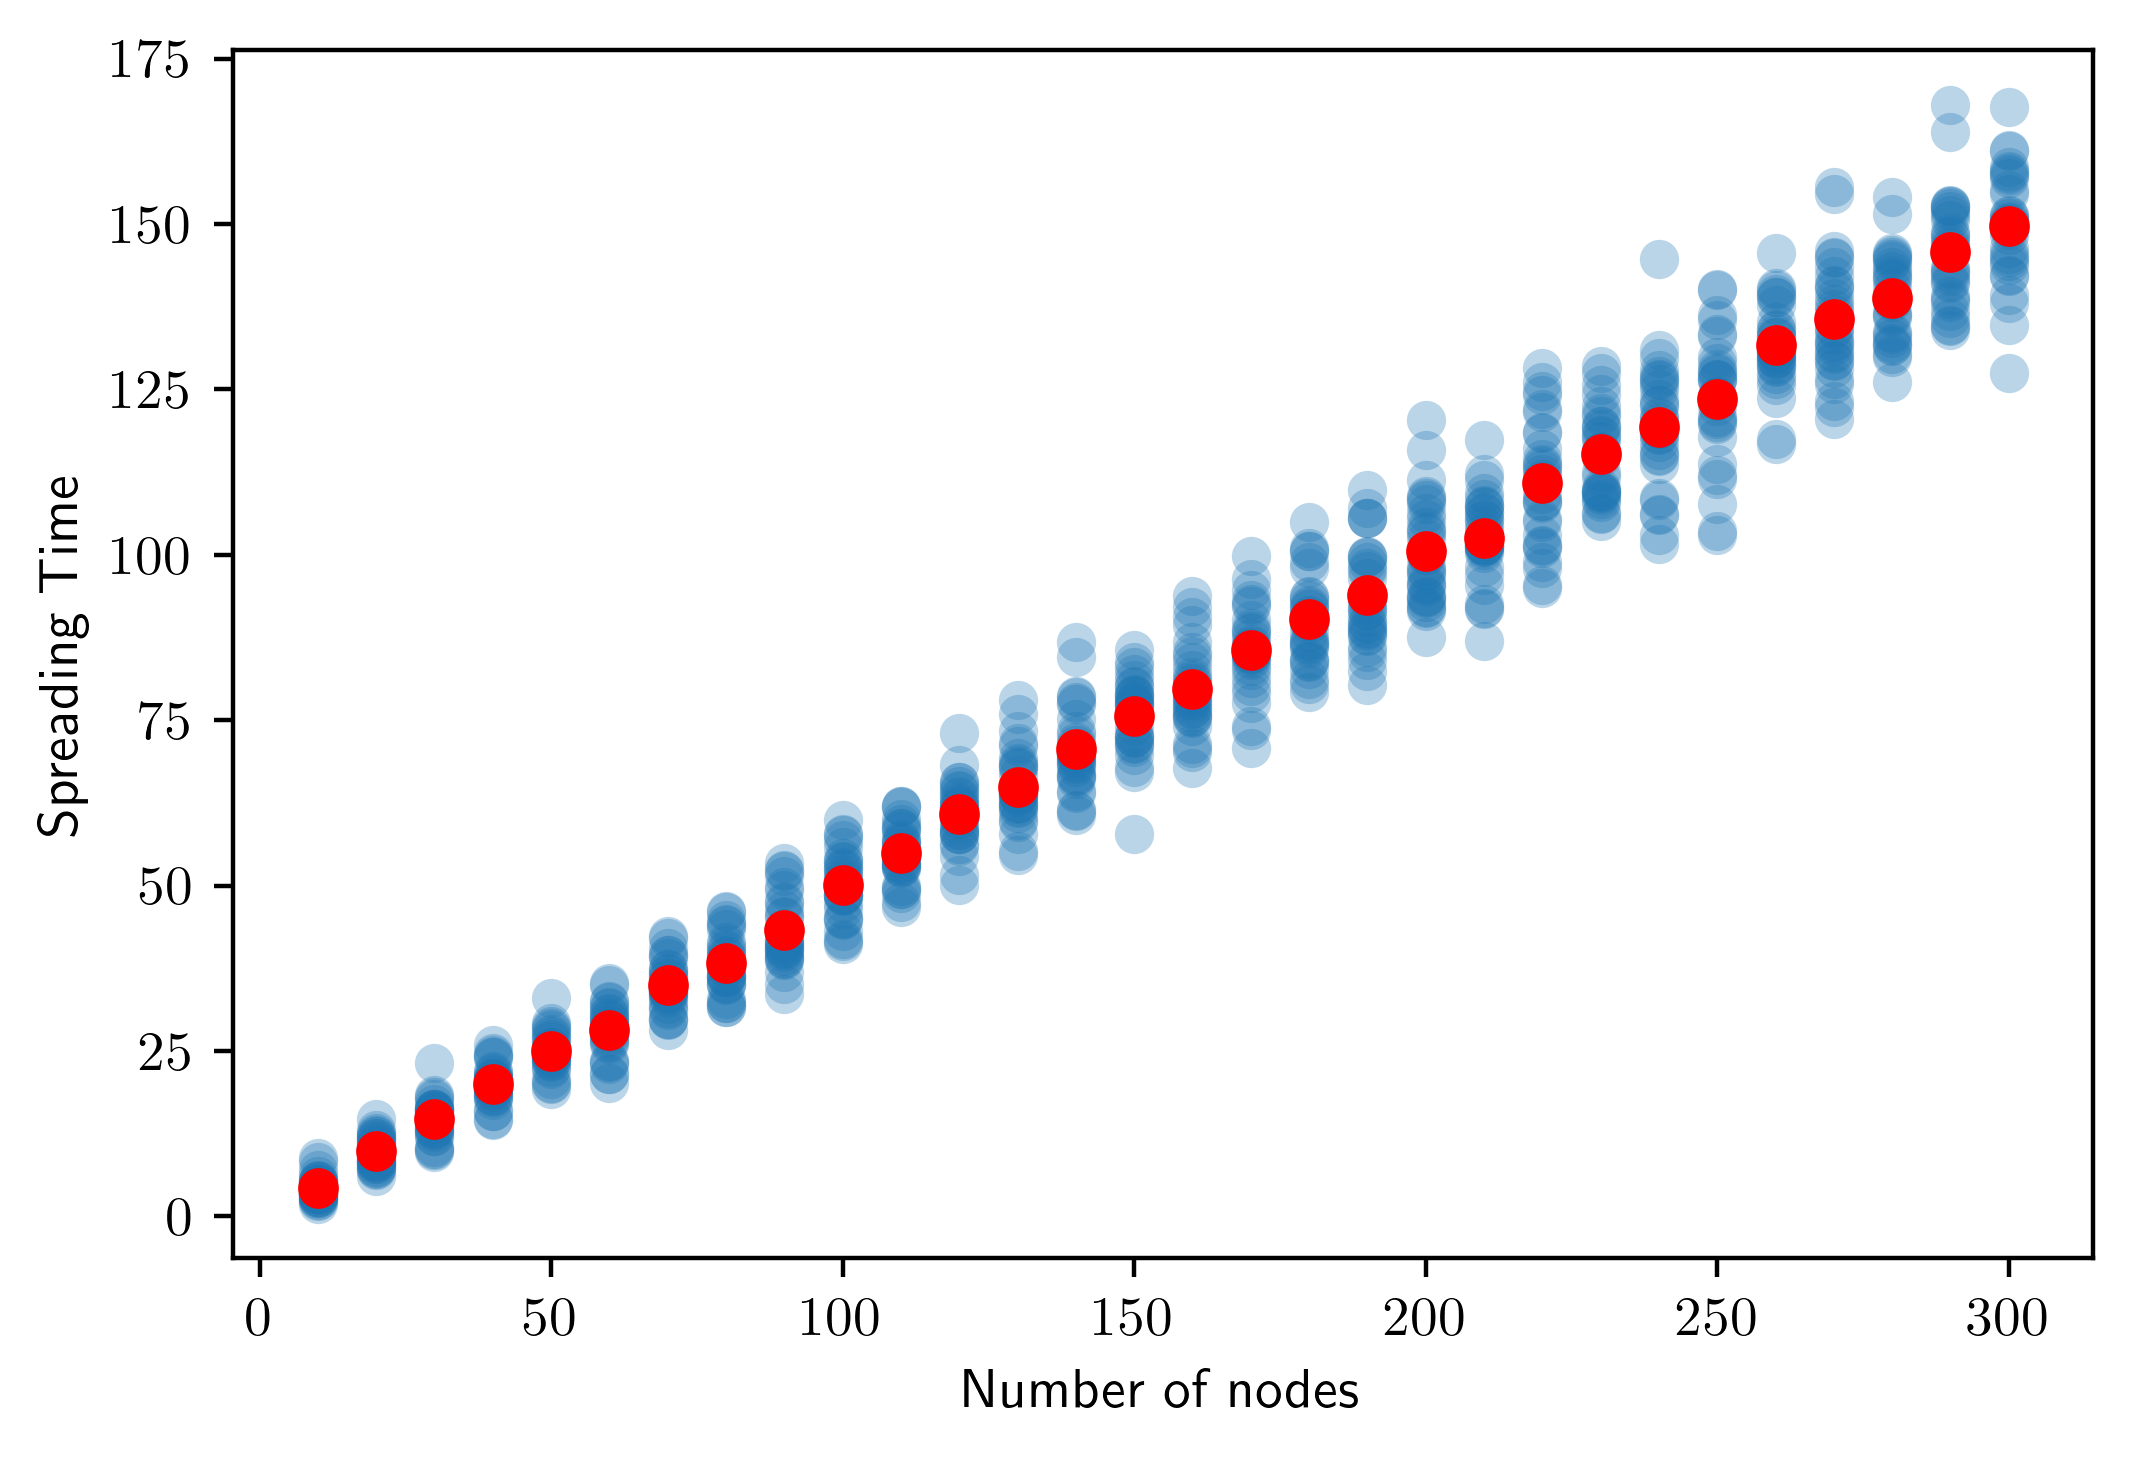
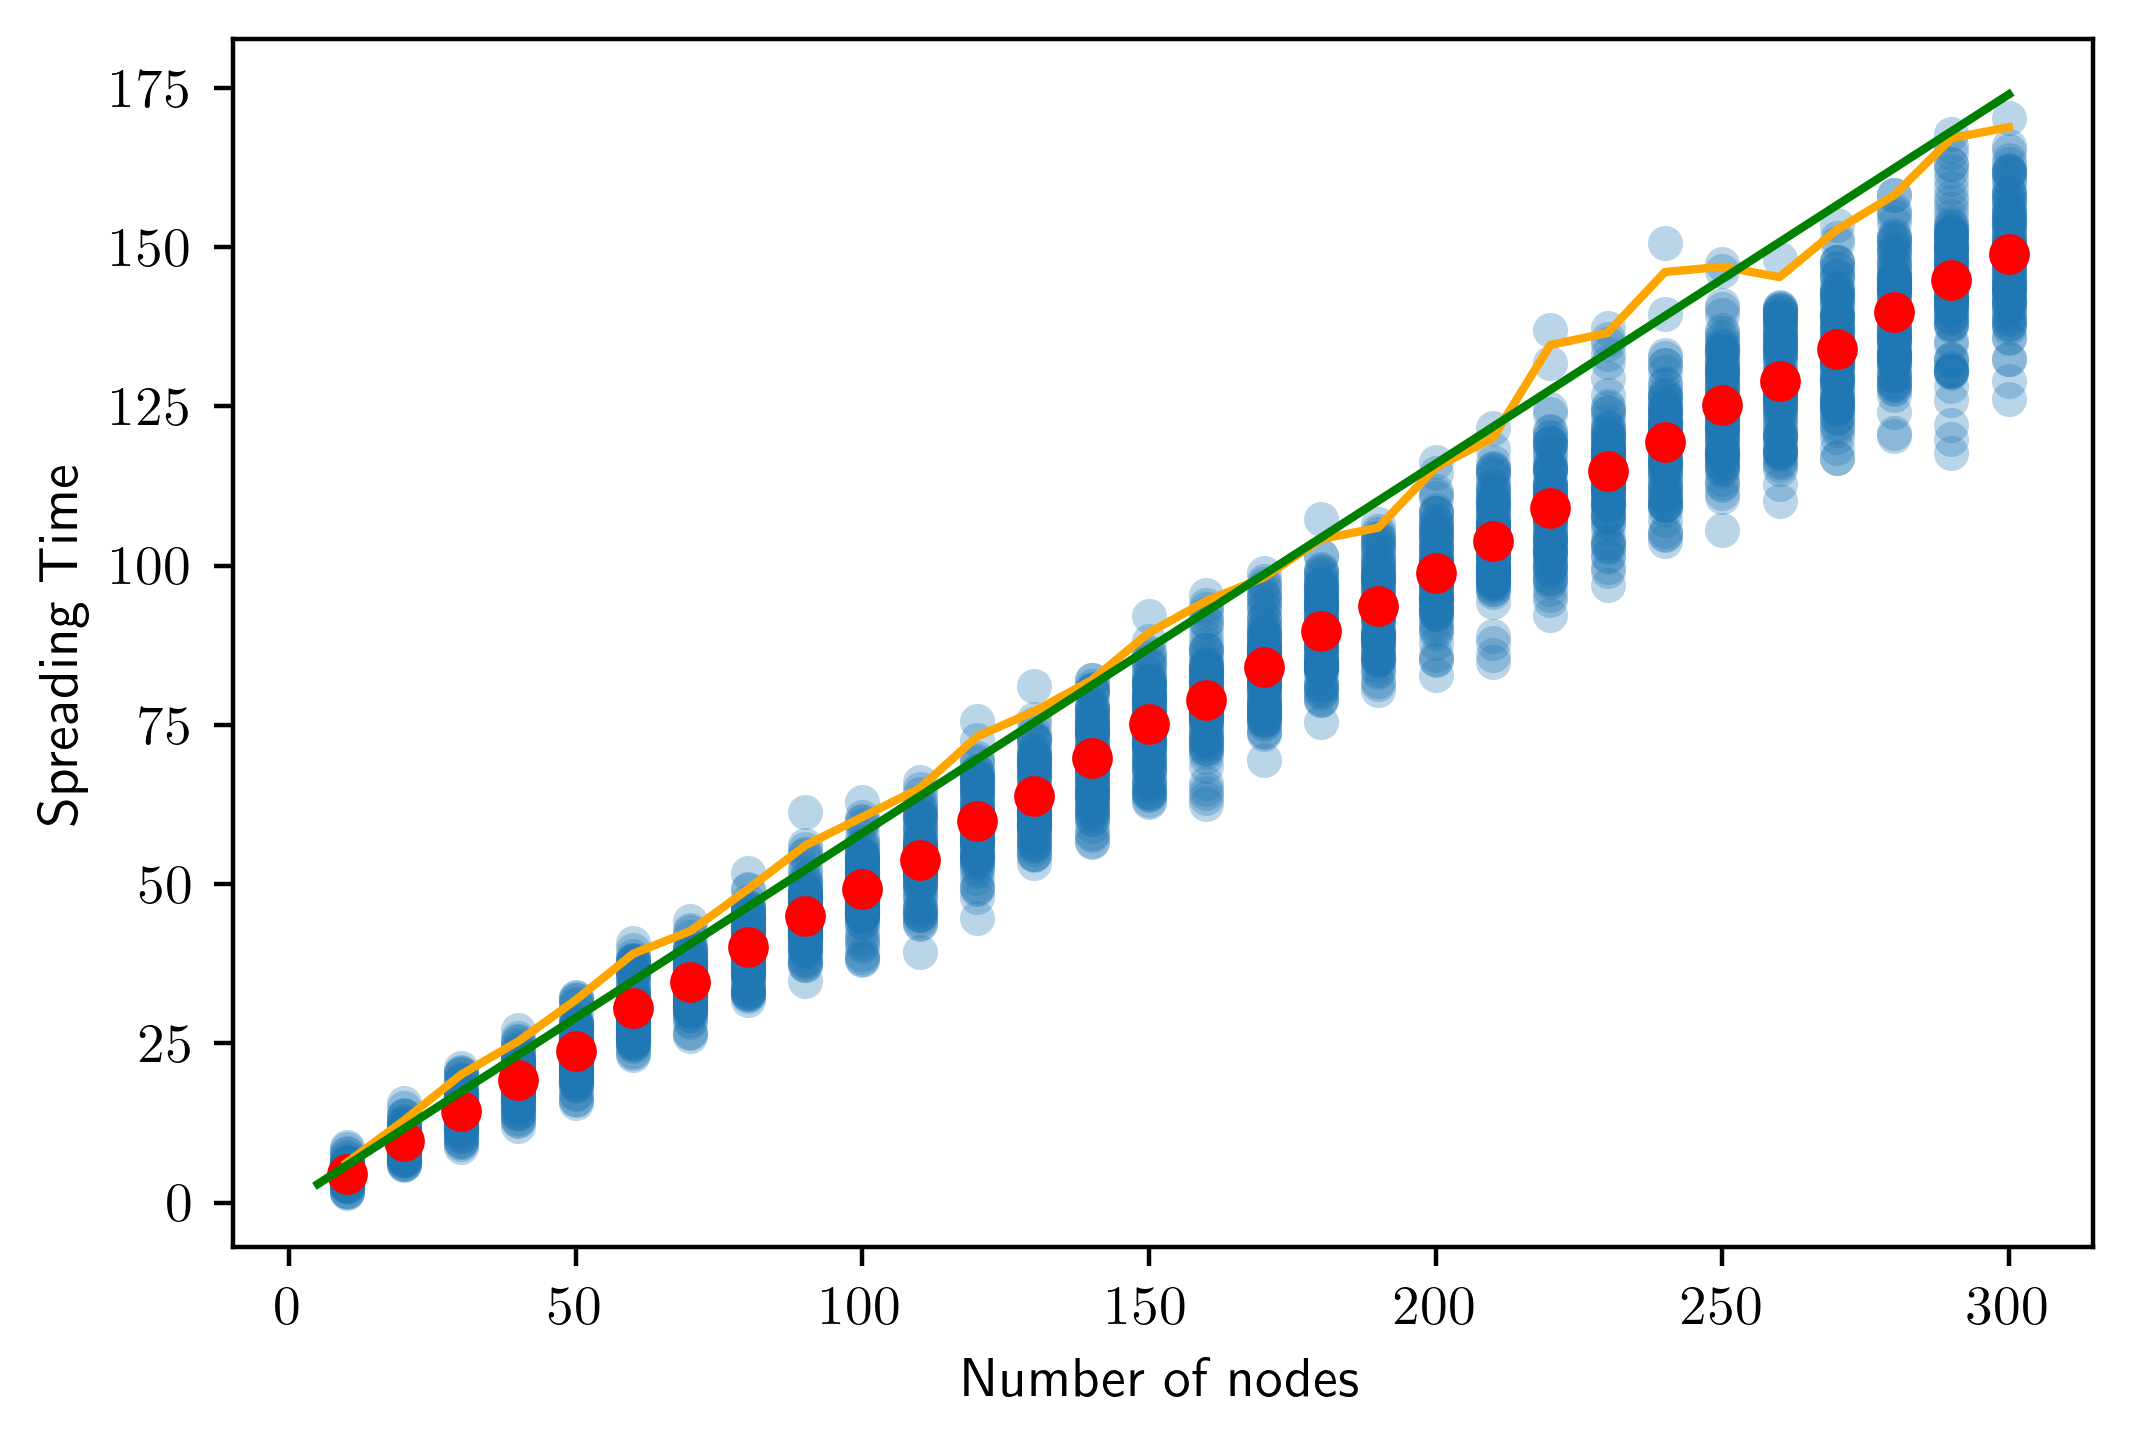
Added analysis method figure

diff --git a/dissertation/chapters/AsyncBoundProof.tex b/dissertation/chapters/AsyncBoundProof.tex
@@ -468,7 +468,7 @@ for large $n$.
 % TODO: IS this an uneccessary tangent?
 % In this result we slowed the spread of the rumour on the static complete graph by alternating the complete topology with the low-connectivity ring topology. However, overall we saw that this approach only slowed the spread of the rumour by a constant factor relative to the spreading time of a static complete graph. A natural question to ask is how infrequently can we have the high-connectivity whilst still maintaining the short $\mathcal{O}(\log n)$ spreading time we see in the static complete graph.
 
-Now we compare the bound with simulated spreading times on the $\mathcal{A}$.
+Now we compare the bound with simulated spreading times on $\mathcal{A}$.
 
 \begin{figure}[h]
 	\centering
@@ -479,25 +479,23 @@ Now we compare the bound with simulated spreading times on the $\mathcal{A}$.
 
 The scatter plot in Figure \ref{fig:alternatingSimResults} displays the results simulated rumour spreading on $\mathcal{A}$. Each blue point in the plot represents a single simulation, where the $x$ component is the number of nodes in the simulation, and the $y$ component is spreading time. Since the spreading time is random variable, 200 simulations were run for each network size we investigated. The means (displayed by red points) illustrate the relationship between the size of the network and the expected spreading time. 
 
-However, since the bound in Theorem \ref{theorem:AsyncUpperBound} holds w.h.p, we need a different metric that for which the majority of the spreading times are bounded by ... % TODO: Sort out what this means
-
-To determine whether our bound is sufficient and tight, we investigate the growth rate of the orange line.
-
-Since the asymptotic bound holds w.h.p, for a network with $n$ nodes, we expect that at most 1 in $n$ simulated spreading times exceed the bound.
-
-For the network size of $n$ nodes, the corresponding value of the orange line represents the $100(1-\frac{1}{n})^\text{th}$ percentile of the simulation results, i.e. that 
-
-We observe that the spreading times grow at like $f(n) = c \log \log (n)$ with an appropriately chosen scaling constant $c$ (plotted in green), so the $\mathcal{O}(\log n)$ bound holds. 
-
-However, this analysis suggests that $\mathcal{O}(\log n)$ bound is not tight for $\mathcal{A}$.
+\begin{figure}[h]
+	\centering
+	\includegraphics[width=1\textwidth]{./figures/analysis_method_example.png}
+	\caption{Illustration of the simulation analysis method. The top plot shows an imaginary spreading time distribution. The bottom plot shows the corresponding empirical distribution generated by simulations.}
+	\label{fig:analysisMethod}
+\end{figure}
 
 
-% TODO: Difference between means and bound -> means fit bound => likely bound works/is tight, expect all points beneath bound don't expect means to follow bound exactly
-% TODO: Analysis - what does this sim actually tell us
+We take a moment to interpret the quantity Theorem \ref{theorem:AsyncUpperBound} bounds. Consider the true distribution of spreading times for a network of size $n$. The top plot of Figure \ref{fig:analysisMethod} shows such a distribution. Since the bound holds w.h.p, we have that at least a $1-\frac{1}{n}$ fraction of the density is below the bound. We represent the bound by $g(n)$ in Figure \ref{fig:analysisMethod} Denote the function that takes a network size, and returns the point at which exactly a $1-\frac{1}{n}$ fraction of the density lies below the point the "high probability function". The high probability function is represented by $f(n)$ in Figure \ref{fig:analysisMethod}. This is the function that Theorem \ref{theorem:AsyncUpperBound} bounds from above. To determine if the bound is tight, we want to identify how close to the bound is to the high probability function.
 
-We now consider another example of a dynamic network.
+However, of course we do not know the full distribution of spreading times as it is generated by a complex stochastic process. Instead, we use simulations to generate an empirical estimate of the spreading time distribution, represented by the bottom plot of Figure \ref{fig:analysisMethod}. We can think of each simulation result as a sample from the full distribution. Using the empirical distribution, we can estimate the high probability function by taking the $100(1-\frac{1}{n})^\text{th}$ percentile of the simulation results for each network size $n$, which we have plotted in orange in Figure \ref{fig:floodingGnpSimResultsTight}. This value of this estimate for a network of size $n$ is illustrated by $\hat{f}(n)$ in Figure \ref{fig:analysisMethod}. Thus, the estimated high probability function gives a lower bound for the growth in spreading times. %TODO: Mention w.h.p somewhere in this sentance
 
-% TODO: FIGINTERP
+On Figure \ref{fig:floodingGnpSimResultsTight}, we have plotted the function $f(n) = c \log \log (n)$ in green, with an appropriately chosen scaling constant $c$. Note that the estimated high probability function has a similar growth rate, so these simulations suggest that w.h.p, the spreading time on $\mathcal{A}$ grows like $\mathcal{O}(\log \log n)$ in the network size.
+
+This analysis suggests that the $\mathcal{O}(\log n)$ bound given by Theorem \ref{theorem:AsyncUpperBound} is not tight for $\mathcal{A}$.
+
+Now we evaluate the performance of the bound on another dynamic network.
 
 \subsection{Shuffled Ring}\label{section:shuffledRingAsyncApplication}
 
@@ -567,10 +565,9 @@ Now we compare the bound we have obtained with simulated spreading times on the 
 % TODO: FIGINTERP, green line is log(x)
 % REGRESSION
 
-We see from Figure \ref{fig:shuffledRingExample} that the spreading times of the Shuffled Ring Network grow logarithmically in the size of the network. % TODO: Justify rigourouly, generate "closeness" metric to true log n?
-Thus, the $\mathcal{O}(n \log n)$ bound given by Theorem $\ref{theorem:AsyncUpperBound}$ is larger by a factor of $n$ in scaling. 
-% TODO: Justify more - bound is weak, doesn't give much information, less useful, motivates investigation into why the bound is weak in this case, and are there other cases where it is also weak?, can we tighten it?
-But why is it the case that the bound is weak for the Shuffled Ring Network? 
+In Figure \ref{fig:shuffledRingExample} we have used the same methods of analysis as in Figure \ref{fig:alternatingSimResults}. However, for this network, the spreading times grow like $\mathcal{O}(\log n)$, which is slower than in $\mathcal{A}$.
+The $\mathcal{O}(n \log n)$ bound given by Theorem $\ref{theorem:AsyncUpperBound}$ is larger than the true spreading times by a factor of $\mathcal{O}(n)$ in asymptotic scaling. Hence, the bound is very weak, and is unlikely to be useful in practice. But why is it the case that the bound is so weak for $\mathcal{S}$?
+% TODO: Justify more -  doesn't give much information,  motivates investigation into why the bound is weak in this case, and are there other cases where it is also weak?, can we tighten it?
 
 To answer this question, we investigate the spreading time on the static ring graph.
 
@@ -682,7 +679,7 @@ We refer to networks with the same topologies in each round up to the relabellin
 
 For example, all other networks isomorphic but not equal to the Static Ring Network (such as the Shuffle Ring Network) involve some relabelling of nodes between rounds, which could introduce additional active edges. Thus, the Static Ring minimises the number of active edges at all time steps so is in fact the adversarial network for the Shuffle Ring Network. 
 
-We saw in this example that the bound was only a factor of $\mathcal{O}(\log n)$ worse than the best possible bound in the adversarial case.  A natural question to ask is whether this is true in general: 
+We saw in this example that the bound was only a factor of $\mathcal{O}(\log n)$ worse than the best possible bound in the adversarial case.  A natural question to ask is whether this phenomenon is true in general: does there always exist a network for which the bound is almost tight? Or are there some conditions under which the bound can be tightened? We will resolve these questions in Chapter \ref{chapter:asyncBoundTight}.
 % TODO: Finish this
 
 % TODO: introduce defns of active, inactive, ismorphism properly

diff --git a/dissertation/chapters/SyncFloodingBound.tex b/dissertation/chapters/SyncFloodingBound.tex
@@ -738,7 +738,7 @@ We verify this result with simulations.
 
 \begin{figure}[h]
 	\centering
-	\includegraphics[width=1\textwidth]{./figures/flooding_simulation_min_p.png}
+	\includegraphics[width=1\textwidth]{./figures/flooding_simulation_min_p_with_error.png}
 	\caption{Results of Edge-Markovian Dynamic Network spreading time simulations when $\hat{p} = \frac{\log n}{n}$}
 	\label{fig:floodingGnpSimResultsTight}
 \end{figure}
@@ -767,7 +767,7 @@ Figure \ref{fig:floodingSimFirstTermMaxPOver4} displays the simulation results f
 
 \begin{figure}[h]
 	\centering
-	\includegraphics[width=1\textwidth]{./figures/flooding_simulation_first_term_max_p.png}
+	\includegraphics[width=1\textwidth]{./figures/flooding_simulation_first_term_max_p_with_errors.png}
 	\caption{Results of Edge-Markovian Dynamic Network spreading time simulations when $\hat{p} = \frac{n^\frac{1}{\log \log n}}{n}$}
 	\label{fig:floodingSimFirstTermMaxP}
 \end{figure}
@@ -775,7 +775,7 @@ Figure \ref{fig:floodingSimFirstTermMaxPOver4} displays the simulation results f
 Figure \ref{fig:floodingSimFirstTermMaxP} shows the spreading time simulations when $\hat{p} = \frac{n^\frac{1}{\log \log n}}{n}$, the largest value of $\hat{p}$ for which Corollary \ref{corollary:edgeMarkovianThetaBound} holds. It is clear that in 
 
 $$
-	g(n) 
+	g(n)
 	= \Theta\left(\frac{\log n}{\log (n\hat{p})}\right) 
 	= \Theta\left(\log \log n \right)
 $$

diff --git a/dissertation/chapters/Preliminaries.tex b/dissertation/chapters/Preliminaries.tex
@@ -391,4 +391,9 @@ $G_t$ represents the topology of the network at the discrete time step $t$. Howe
 	For a Dynamic Network $\mathcal{G}$ on a vertex set $V$, $d_v(\gamma)$ is the degree of a vertex $v \in V$ at time $\gamma$, i.e. the degree of $v$ in $G_\gamma$
 \end{definition}
 
+
+% TODO: DEFINITION OF ISOMORPHISM BETWEEN NETWORKSs
+
+% TOD: definition of active and inactive edges in static rumour spreading section.
+
 % TODO: Discuss implications for async rumour spreading - interpreting poission process as exponential clock, not interested in value of the process
